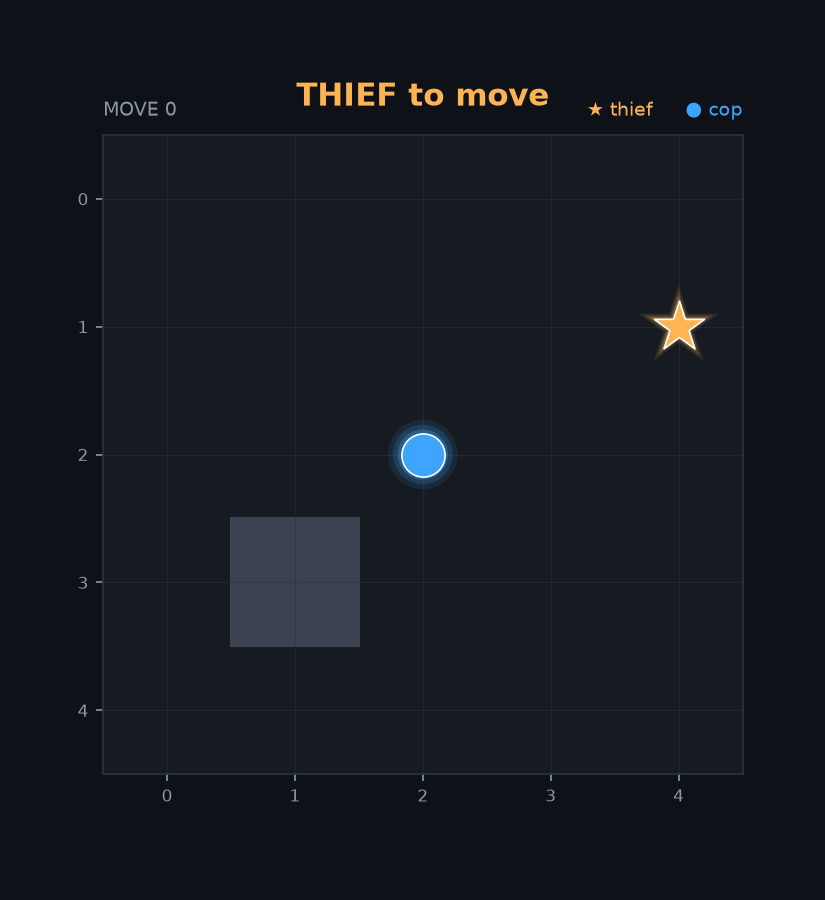
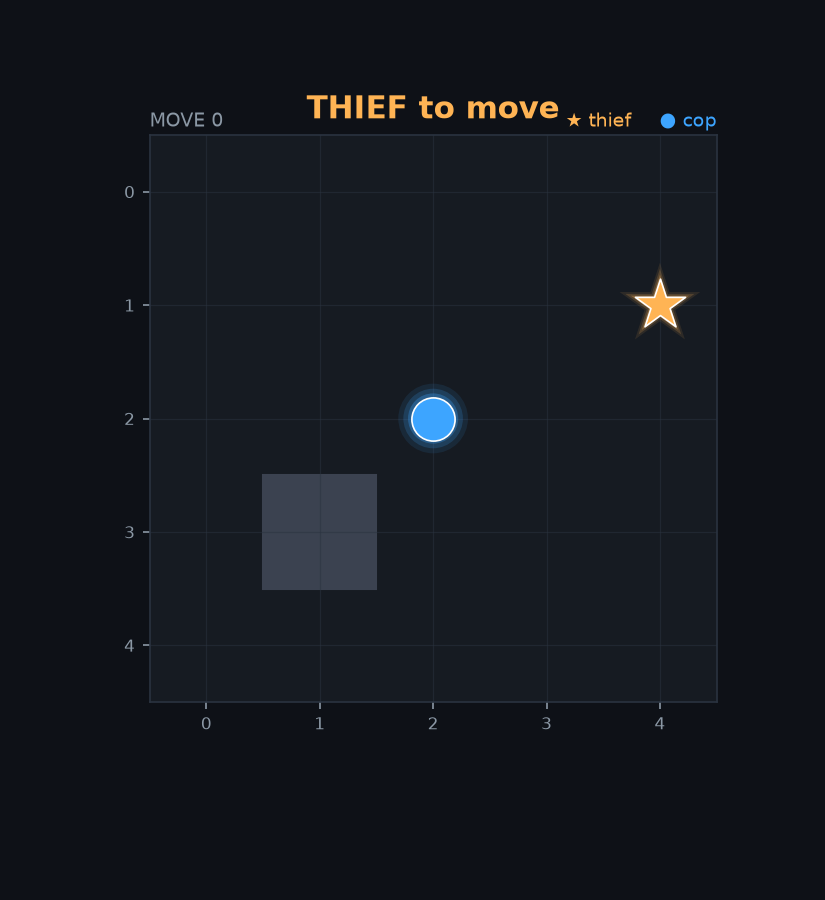
fix(gui): speech bubbles were clipped off-frame — reserve margins
The per-turn NL message bubble (and the title) were drawn but cut off the figure
edge: tight_layout squeezed the axes to fill the figure, clipping anything in the
margin. Fix: render_state reserves explicit top/bottom margins via
subplots_adjust and the animator/live-viewer no longer call tight_layout, so each
turn's spoken line shows fully in a bordered bubble below the board.

Regenerated assets with the corrected layout. 180 tests, 100% cov, Ruff clean.

diff --git a/src/marl_cop_thief/gui/overlays.py b/src/marl_cop_thief/gui/overlays.py
@@ -22,11 +22,11 @@ def draw_hud(ax: Any, state: GameState, max_moves: int | None) -> None:
     else:
         color = theme.COP if state.to_move is Role.COP else theme.THIEF
         banner = f"{state.to_move.value.upper()} to move"
-    ax.set_title(banner, color=color, fontsize=15, fontweight="bold", pad=14)
+    ax.set_title(banner, color=color, fontsize=15, fontweight="bold", pad=8)
     moves = f"MOVE {state.moves_used}" + (f" / {max_moves}" if max_moves else "")
-    ax.text(0.0, 1.03, moves, transform=ax.transAxes, color=theme.MUTED, fontsize=9, ha="left")
-    ax.text(1.0, 1.03, "● cop", transform=ax.transAxes, color=theme.COP, fontsize=9, ha="right")
-    ax.text(0.86, 1.03, "★ thief", transform=ax.transAxes, color=theme.THIEF, fontsize=9, ha="right")
+    ax.text(0.0, 1.015, moves, transform=ax.transAxes, color=theme.MUTED, fontsize=9, ha="left")
+    ax.text(1.0, 1.015, "● cop", transform=ax.transAxes, color=theme.COP, fontsize=9, ha="right")
+    ax.text(0.85, 1.015, "★ thief", transform=ax.transAxes, color=theme.THIEF, fontsize=9, ha="right")
 
 
 def draw_speech(ax: Any, state: GameState, message: str) -> None:
@@ -38,10 +38,11 @@ def draw_speech(ax: Any, state: GameState, message: str) -> None:
     speaker = state.cop if is_cop else state.thief
     color = theme.COP if is_cop else theme.THIEF
     ax.annotate(
-        textwrap.fill(text, 46),
+        textwrap.fill(text, 52),
         xy=(speaker.x, speaker.y), xycoords="data",
-        xytext=(0.5, -0.16), textcoords="axes fraction",
-        ha="center", va="top", color=theme.TEXT, fontsize=9.5,
+        xytext=(0.5, -0.13), textcoords="axes fraction",
+        ha="center", va="top", color=theme.TEXT, fontsize=10,
         bbox={"boxstyle": "round,pad=0.5", "fc": theme.PANEL, "ec": color, "lw": 1.5},
         arrowprops={"arrowstyle": "-|>", "color": color, "alpha": 0.8, "shrinkA": 6},
+        annotation_clip=False,
     )

diff --git a/src/marl_cop_thief/gui/board_renderer.py b/src/marl_cop_thief/gui/board_renderer.py
@@ -40,6 +40,9 @@ def render_state(
     """Draw the whole board frame (dark theme, glow tokens, trails, HUD, speech)."""
     ax.clear()
     theme.style_axes(ax.figure, ax)
+    # Reserve margin for the title/legend (top) and the speech bubble (bottom) so
+    # they are never clipped; do NOT use tight_layout (it squeezes them off-frame).
+    ax.figure.subplots_adjust(left=0.09, right=0.96, top=0.85, bottom=0.22)
     ax.set_xlim(-0.5, state.width - 0.5)
     ax.set_ylim(-0.5, state.height - 0.5)
     ax.set_xticks(range(state.width))

diff --git a/src/marl_cop_thief/gui/live_viewer.py b/src/marl_cop_thief/gui/live_viewer.py
@@ -87,7 +87,6 @@ def play_live(
         thief_trail.append(state.thief)
         render_state(state, ax, caption, max_moves=max_moves,
                      cop_trail=cop_trail, thief_trail=thief_trail)
-        fig.tight_layout()
         fig.canvas.draw_idle()
 
     timer = fig.canvas.new_timer(interval=poll_ms)

diff --git a/src/marl_cop_thief/gui/match_animator.py b/src/marl_cop_thief/gui/match_animator.py
@@ -38,7 +38,6 @@ def _animate(frames: list[Frame], path: str, fps: int, max_moves: int | None = N
     anim = animation.FuncAnimation(
         fig, lambda i: _draw(frames, ax, max_moves, i), frames=len(frames), interval=400
     )
-    fig.tight_layout()
     anim.save(path, writer=animation.PillowWriter(fps=fps))
     plt.close(fig)
     return path

diff --git a/README.md b/README.md
@@ -128,6 +128,7 @@ Newest first.
 
 | Date | What we did | Why | Evidence |
 |------|-------------|-----|----------|
+| 2026-06-25 | **Fixed clipped speech bubbles** — the NL message bubble (and title) were cut off the figure edge because `tight_layout` squeezed the axes; reserved explicit top/bottom margins (`subplots_adjust`) and dropped `tight_layout`, so each turn's spoken line is fully visible below the board | "I don't see the comments the agents send" — bubbles were rendered but off-frame | `gui/{board_renderer,overlays}.py`; regenerated `assets/*`; 180 tests, 100% cov |
 | 2026-06-25 | **Modern-dark GUI redesign** — new `gui/theme.py` (dark palette + `glow()` halo) and `gui/overlays.py` (HUD banner/move-counter/legend + rounded **speech bubble** on the speaker); `board_renderer` now draws a dark board with **glowing cop/thief tokens**, barrier slabs, faded **movement trails**, and a **capture flash** on a cop win (renderer stays stateless; trails + `max_moves` passed in) | "Make the GUI very very beautiful" | `assets/board_state.png`, `match.gif`, `match_nl.gif` (regenerated); 180 tests, 100% cov, Ruff clean |
 | 2026-06-25 | **LLM-written, in-character speech** — added a pluggable `Speaker`: `nl_speak.llm_speaker` asks the LLM (persona prompt B5) to voice each move freshly (cop = heroic + implies cell; thief = sly + cryptic), replacing the fixed `nl_encode` templates. Enabled with a real key + `llm.creative_speech`; falls back to templates on empty/error/offline. **Live window now auto-closes** after the game (`gui.close_on_finish` + `final_hold_seconds`) | The bottom-of-screen lines were identical templates (only coords changed) — make them genuinely generative; and the window lingered after the game ended | `nl_protocol/{nl_speak,prompt_templates}.py`; **180 tests, 100% cov**, Ruff clean; ~2× LLM calls (R.7) |
 | 2026-06-25 | **Live window no longer freezes** — moved frame production (which blocks on the per-turn LLM call) onto a **daemon worker thread** feeding a `queue.Queue`; the Tk event loop keeps the **main thread** and drains one frame per tick via `fig.canvas.new_timer` (`gui.poll_interval_ms`). Extracted pure `_produce`/`_render_tick` helpers (unit-tested). Config key `gui.turn_delay_seconds` → `gui.poll_interval_ms` | Window showed "not responding" while waiting for the next turn (blocking call on the GUI thread) | `gui/live_viewer.py`; PLAN §4 threading note; docs-first |